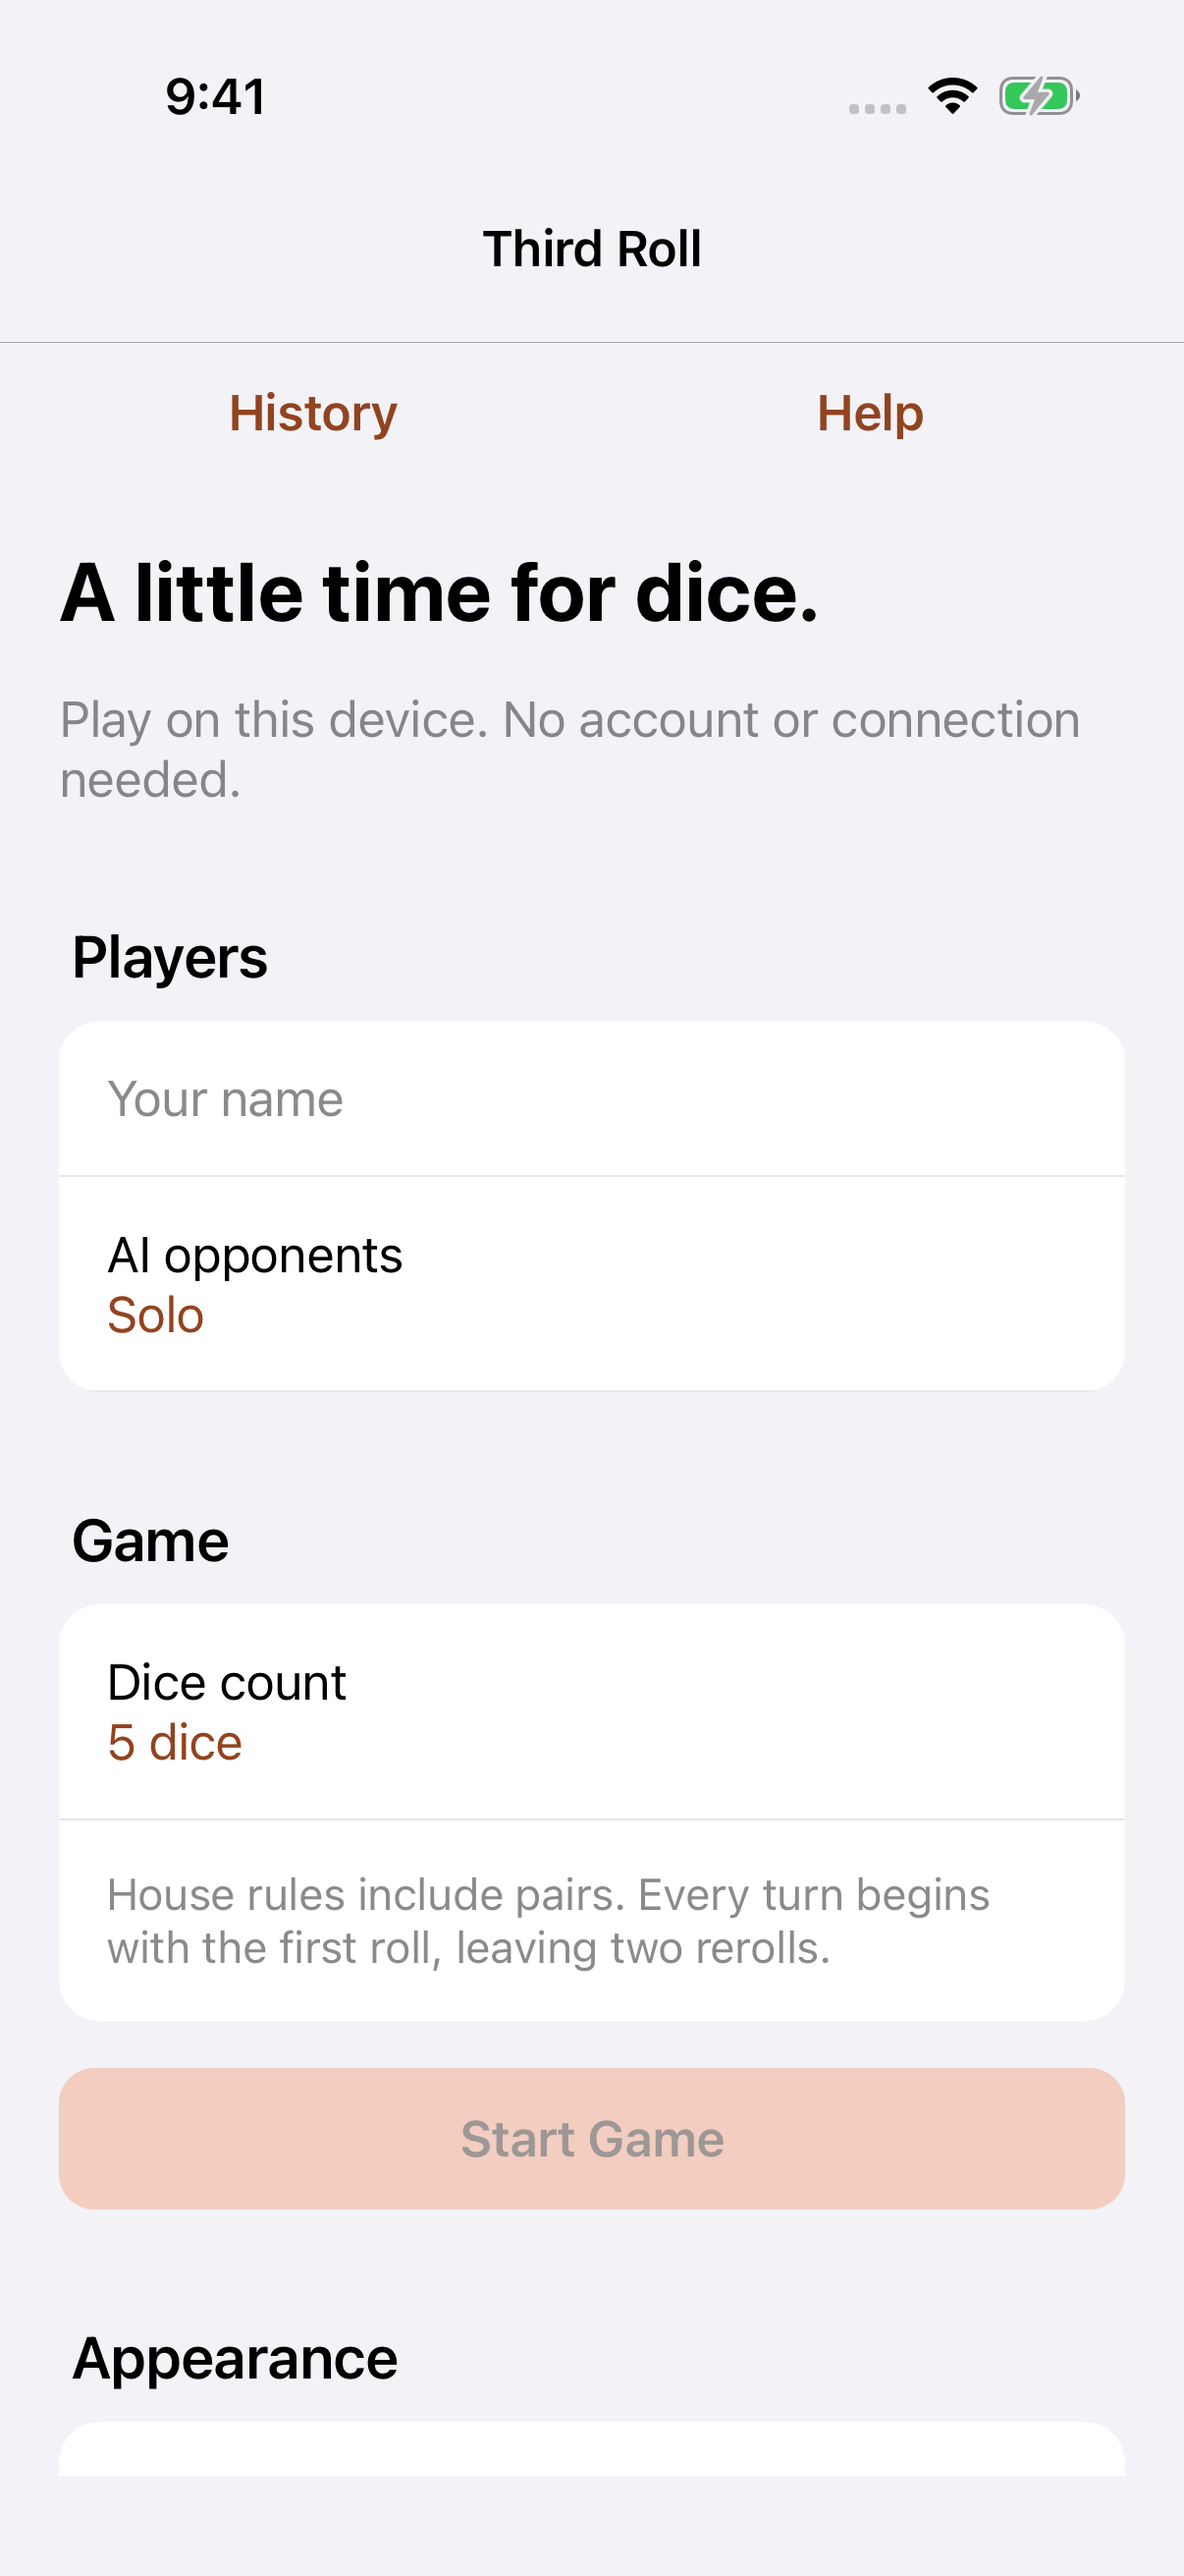
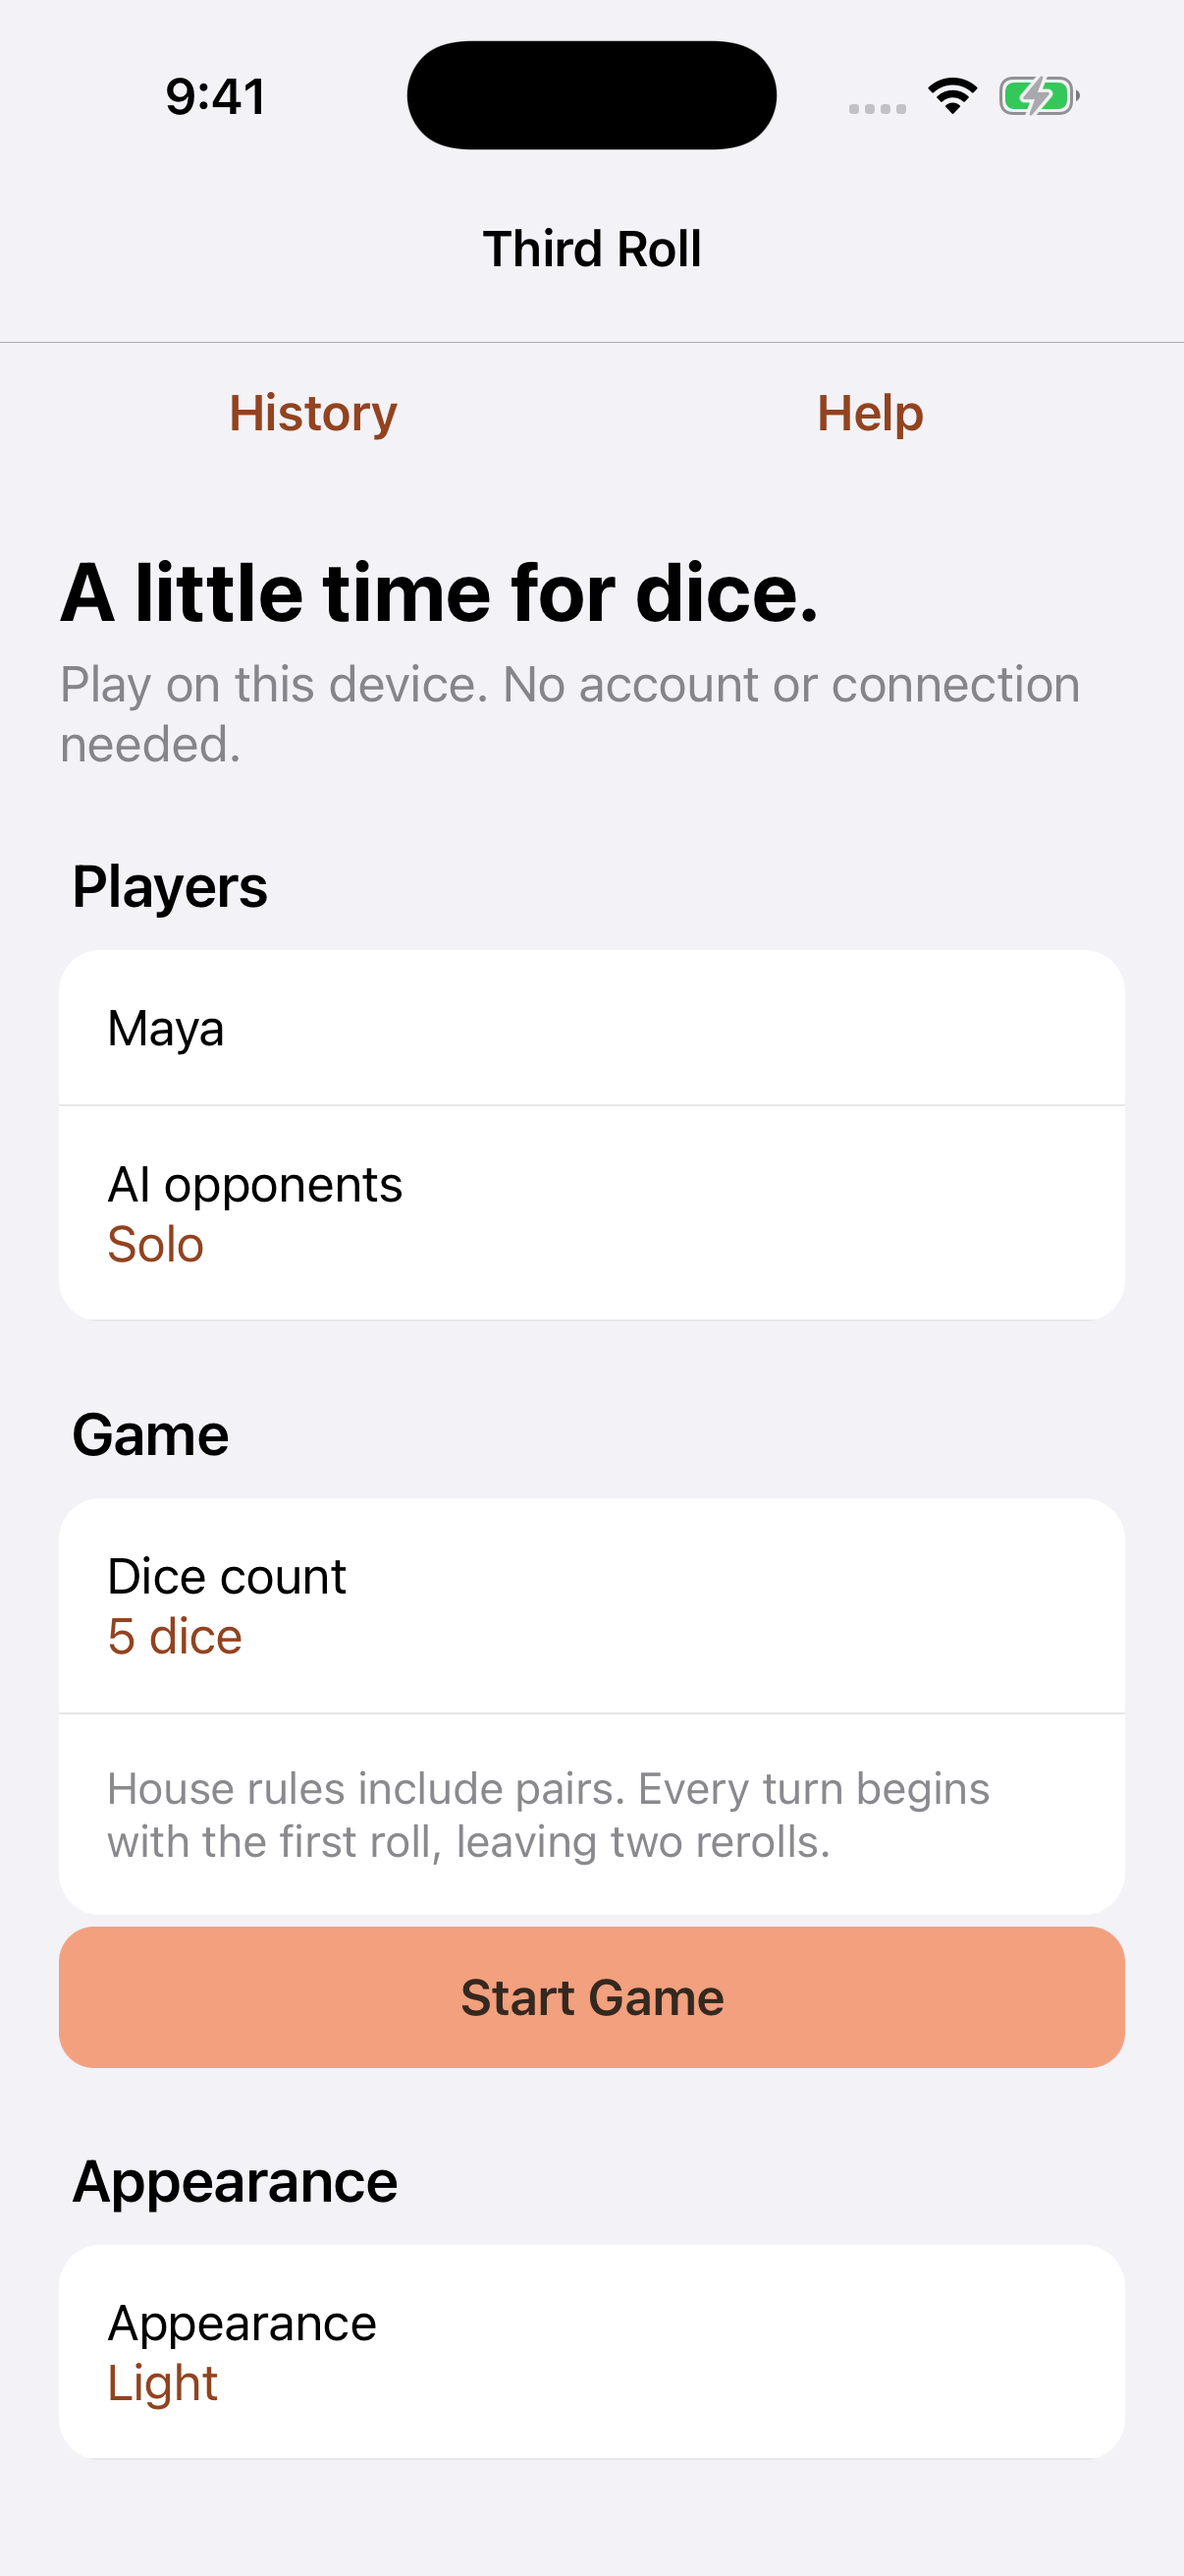
Refresh truthful Setup site preview and pinned CLI retry coverage (#118)
* fix(site): show complete staged Setup preview with accurate provenance

* fix(site): restore UTF-8 title and deletion punctuation

* ci: cover receive failures in pinned Maestro download retries

diff --git a/site/README.md b/site/README.md
@@ -11,9 +11,10 @@ contact address, store account, signed artifact or private identity is published
 - [Rules and support](https://hemsoft-dev.github.io/yahtzee/support.html)
 - [Privacy policy](https://hemsoft-dev.github.io/yahtzee/privacy.html)
 
-These are deployment targets until the first successful main-branch deployment
-and unauthenticated HTTPS verification. Record that receipt in
-[issue #49](https://github.com/hemsoft-dev/yahtzee/issues/49) after merge. No App
+These URLs are live on GitHub Pages. The existing main-branch workflow publishes
+site changes after review and merge. Retain source-bound deployment and
+unauthenticated HTTPS evidence with each delivery. Initial publication is tracked
+in [issue #49](https://github.com/hemsoft-dev/yahtzee/issues/49). No App
 Store link or badge is shown before a verified listing exists. The primary
 prerelease action opens the rules; release tracking is linked alongside it.
 
@@ -57,10 +58,12 @@ The [release brief](../docs/mobile-release-brief.md) controls launch claims.
 Native source and unsigned simulator evidence establish development behavior;
 signed-device, backup/restore and privacy acceptance remain release gates.
 
-The two original PNGs are unaltered simulator captures of empty setup and Help,
-with no player information or test records. [Provenance](assets/provenance.json)
-records the exact source, CI artifact and hashes. They illustrate the current
-development UI, not final App Store screenshots. No fictional fixture or played
+The two original PNGs are unaltered simulator captures of Setup and Help from
+different development sources. Setup shows the fictional player name Maya; neither
+image shows a played game or test records. [Provenance](assets/provenance.json)
+records each capture's source, CI artifact, dimensions and hash, and the Setup image
+it replaced. They illustrate development UI, not final App Store screenshots or
+current-head native acceptance. No fictional fixture or played
 score is represented as release evidence.
 
 The site retains [DESIGN.md](../DESIGN.md), bundled Manrope with its
